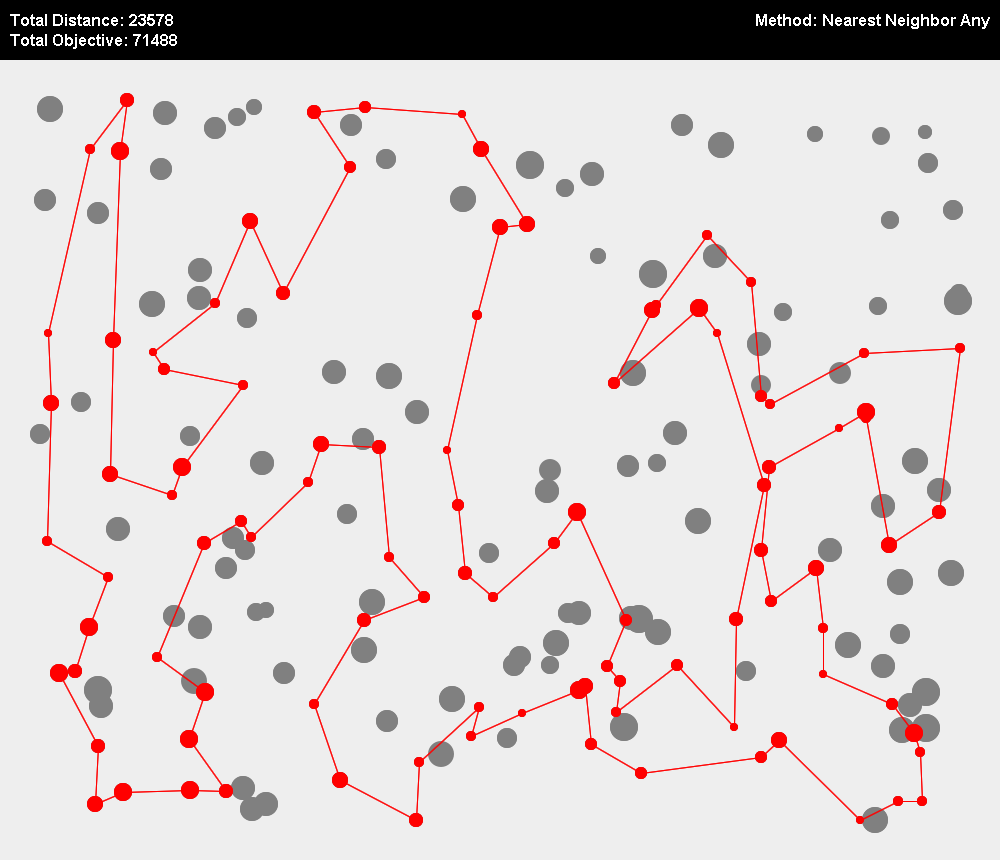
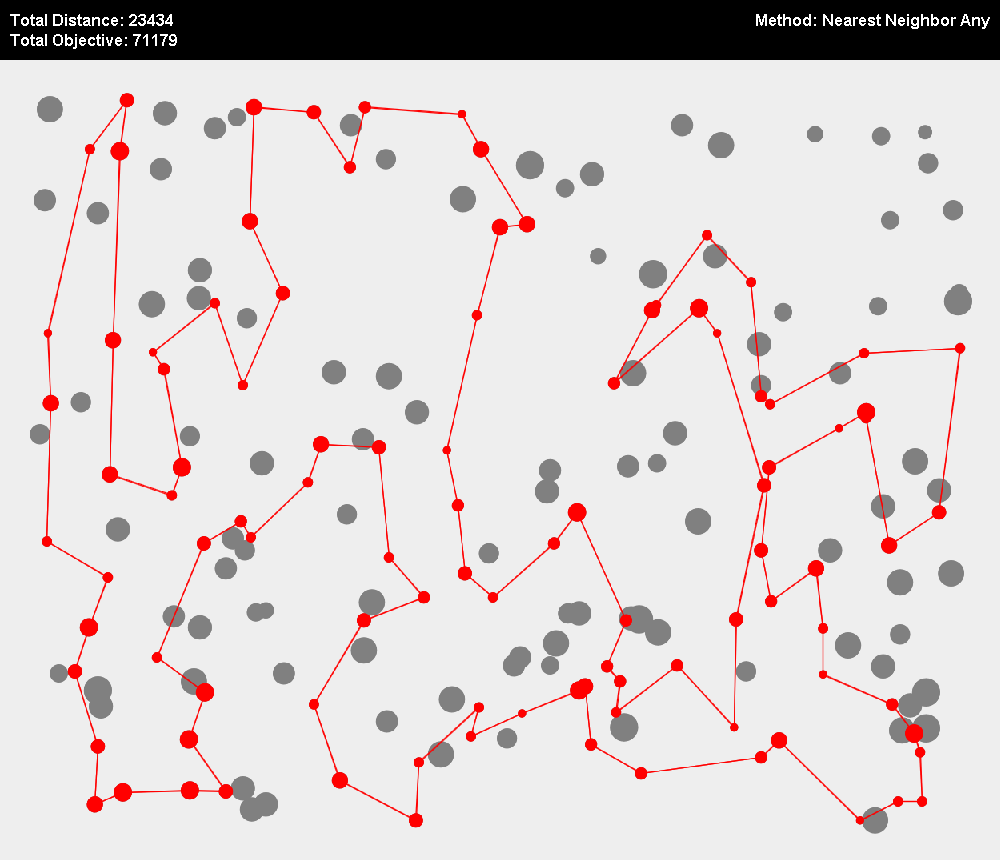
Smol fix

diff --git a/greedy heuristics/src/main/java/solver/NN2Solver.java b/greedy heuristics/src/main/java/solver/NN2Solver.java
@@ -19,11 +19,21 @@ public class NN2Solver extends GenericSolver{
 
         for (int node = 0; node < getObjectiveMatrix().length; node++) {
             if (!visited[node]) {
-                for (int position = 0; position < currentPath.size(); position++) {
+                for (int position = 0; position <= currentPath.size(); position++) {
                     int tempScore = 0;
-                    tempScore += getObjectiveMatrix()[currentPath.get(position == 0 ? currentPath.size() - 1 : position - 1)][node];
-                    tempScore += getObjectiveMatrix()[node][currentPath.get(position)];
-                    tempScore -= getObjectiveMatrix()[currentPath.get(position == 0 ? currentPath.size() - 1 : position - 1)][currentPath.get(position)];
+                    if (position == 0){
+                        tempScore += getObjectiveMatrix()[node][currentPath.getFirst()];
+                        tempScore -= getCosts()[currentPath.getFirst()];
+                        tempScore += getCosts()[node];
+                    } else if (position == currentPath.size()) {
+                        tempScore += getObjectiveMatrix()[currentPath.getLast()][node];
+
+                    } else{
+                        tempScore += getObjectiveMatrix()[currentPath.get(position - 1)][node];
+                        tempScore += getObjectiveMatrix()[node][currentPath.get(position)];
+                        tempScore -= getObjectiveMatrix()[currentPath.get(position - 1)][currentPath.get(position)];
+                    }
+
                     if (tempScore < minScore) {
                         minScore = tempScore;
                         bestNode = node;

diff --git a/greedy heuristics/src/main/java/app/Main.java b/greedy heuristics/src/main/java/app/Main.java
@@ -19,7 +19,7 @@ public class Main{
     public static void main(String[] args) {
 
 
-        String dataset = "TSPA";
+        String dataset = "TSPB";
         //CSVParser parser = new CSVParser("src/main/data/" + dataset + ".csv", ";");
         CSVParser parser = new CSVParser("greedy heuristics/src/main/data/" + dataset + ".csv", ";");
 
